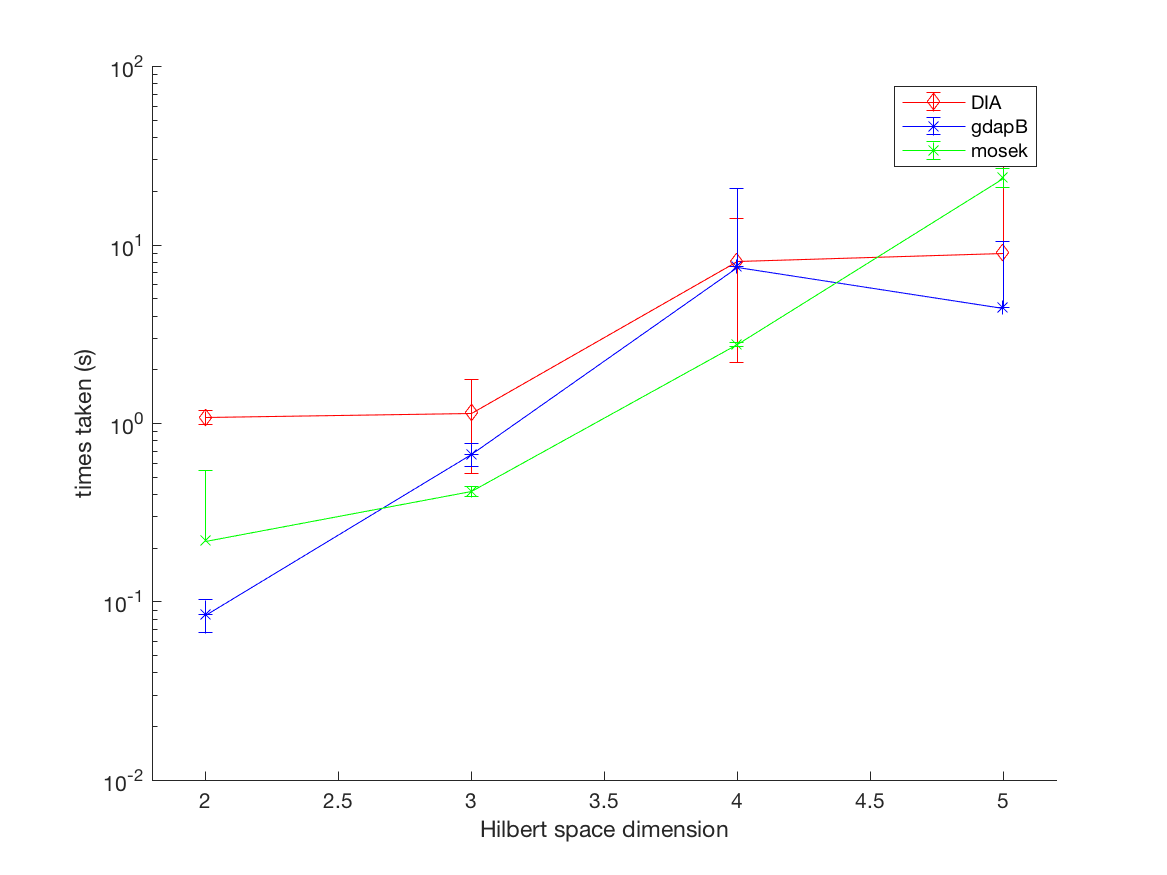
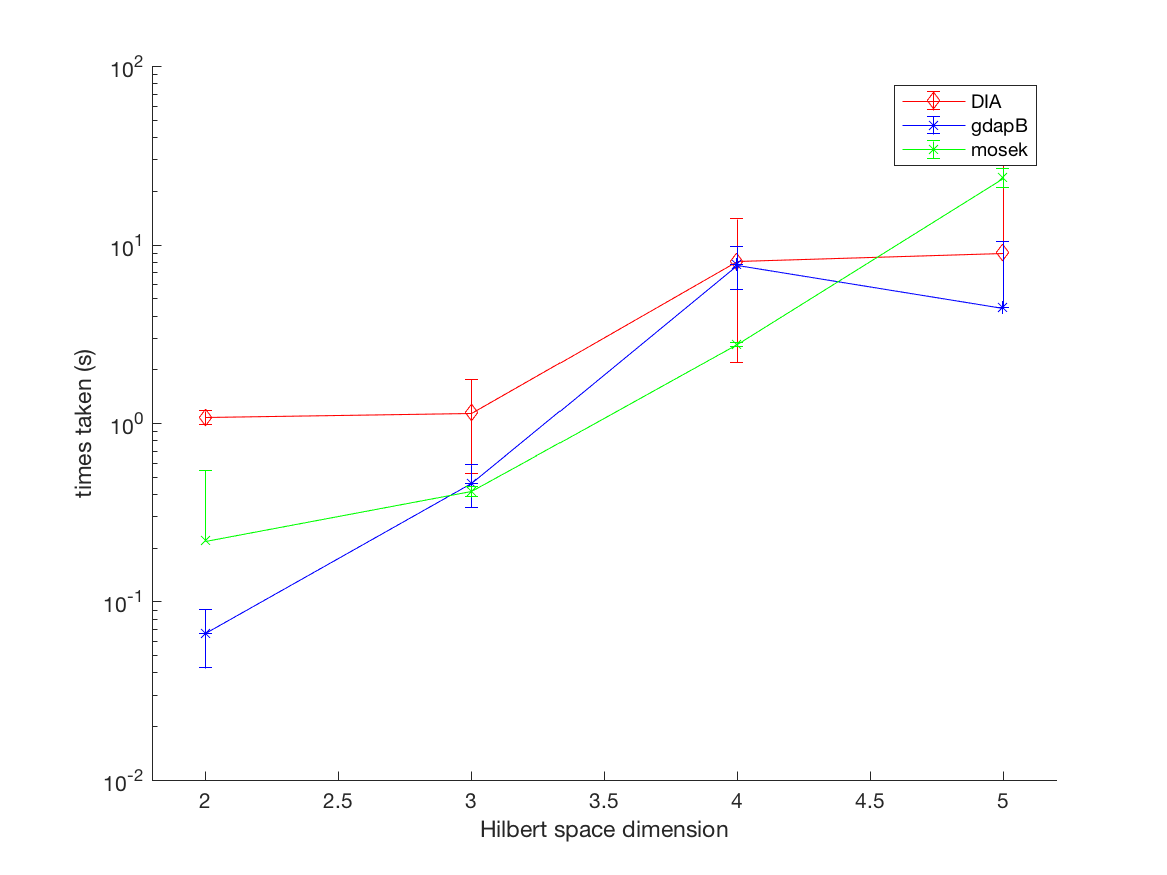
precomputing matrices for TP projection

diff --git a/gdapB.m b/gdapB.m
@@ -4,24 +4,35 @@ function [ choi_ml_vec,solution, costs ] = gdapB( A,n )
 %   Detailed explanation goes here
     d = sqrt(sqrt(size(A)));
     d = d(2);
+    
+    % precompute matrices for TP_project
+    M = zeros([d*d,d*d*d*d]);
+    for i=1:d
+        e = zeros(1,d);
+        e(i)  = 1;
+        B = kron(eye(d),e); % this is expensice
+        M = M + kron(B,B);  % this is expensive (kron)
+    end
+    MdagM = M'*M; % NEED TO PASS THIS INTO CPTP PROJECT AND THAN AGAIN TO TP PROJECT
+    
+    
     choi_init = eye(d*d)/d;
     choi_init = reshape(choi_init,[],1);
     solution  = {choi_init};
 %     stepsize      = 1.0/(1e3*d);
-    gamma = 1e-7; % larger means slower
-    costs = zeros(1,1e2);
-%     D = cell(1,1e3);
-    for i=1:1e2
-        costs(i)  = cost(A,n,solution{i});
-        D         = CPTP_project(solution{i}-gradient(A,n,solution{i}))-solution{i};
-%         if norm(D{i})<1e-10
+    gamma = 1e-7;
+    for i=1:5e3
+        i;
+        costs(i)     = cost(A,n,solution{i});
+        D{i}  = CPTP_project(solution{i}-gradient(A,n,solution{i}), MdagM, M)-solution{i};
+%         if norm(D{i})<1e-10   
 %             break
 %         end
         alpha = 1;
-        while cost(A,n,solution{i}+alpha*D) >= cost(A,n,solution{i}) +  gamma*alpha*(D'*gradient(A,n,solution{i}))
+        while cost(A,n,solution{i}+alpha*D{i}) > cost(A,n,solution{i}) +  gamma*alpha*(D{i}'*gradient(A,n,solution{i}))
             alpha = 0.2 * alpha ;
         end
-        solution{i+1} = solution{i} + alpha*D;
+        solution{i+1} = solution{i} + alpha*D{i};
         if i>20
             if var(costs(i-20:i)) < 1e-5
                 break
@@ -29,7 +40,7 @@ function [ choi_ml_vec,solution, costs ] = gdapB( A,n )
         end
     end
 
-%     choi_ml_vec = CPTP_project(solution{end});
     choi_ml_vec = solution{end};
 end
+
 

diff --git a/TP_project.m b/TP_project.m
@@ -1,17 +1,17 @@
-    function [ projected_choi_vec ] = TP_project( choi_vec )
+    function [ projected_choi_vec ] = TP_project( choi_vec, MdagM, M)
     %UNTITLED6 Summary of this function goes here
     %   Detailed explanation goes here
         d = sqrt(sqrt(size(choi_vec)));
         d = d(1);
-        % initialise A. TODO precompute this!
-        M = zeros([d*d,d*d*d*d]);
-        for i=1:d
-            e = zeros(1,d);
-            e(i)  = 1;
-            B = kron(eye(d),e);
-            M = M + kron(B,B);
-        end
+%         % initialise A. TODO precompute this!
+%         M = zeros([d*d,d*d*d*d]);
+%         for i=1:d
+%             e = zeros(1,d);
+%             e(i)  = 1;
+%             B = kron(eye(d),e); % this is expensice
+%             M = M + kron(B,B);  % this is expensive (kron)
+%         end
         b = reshape(eye(d),[],1);
-        S = eye(d*d*d*d)- (1.0/d) * (M'*M);
+        S = eye(d*d*d*d)- (1.0/d) * MdagM;
         projected_choi_vec = S*choi_vec + (1.0/d)*M'*b;
     end

diff --git a/CPTP_project.m b/CPTP_project.m
@@ -1,4 +1,4 @@
-function [ projected_choi_vec ] = CPTP_project( choi_vec )
+function [ projected_choi_vec ] = CPTP_project( choi_vec, MdagM, M  )
 %UNTITLED7 Summary of this function goes here
 %   Detailed explanation goes here
     x    = {choi_vec};
@@ -14,7 +14,7 @@ function [ projected_choi_vec ] = CPTP_project( choi_vec )
 %         x{k+1}=0.5*PSD_project(x{k})+0.5*TP_project(x{k});   % AVERAGED 
         y{k}   = PSD_project(x{k}+p{k}); % DIJKSTRA
         p{k+1} = x{k}+p{k}-y{k};
-        x{k+1} = TP_project(y{k}+q{k});
+        x{k+1} = TP_project(y{k}+q{k}, MdagM, M);
         q{k+1} = y{k}+q{k}-x{k+1};
 %         GAP    = norm(x{end-1}-x{end});      
         if k>2

diff --git a/PSD_project.m b/PSD_project.m
@@ -4,14 +4,17 @@ function [ projected_choi_vec ] = PSD_project( choi_vec )
     d = sqrt(size(choi_vec));
     d = d(1);
     choi = reshape(choi_vec,[],d);
-    
-   
+       
     choi = (choi + choi')/2;
+    
+    
     [V,D] = eig(choi);
     D = max(D,0);
     choi = V*D*V';
 
-%     choi = positiveProjection(choi); % Smolin method from EB
+%     t = trace(choi);
+%     choi = t*positiveProjection(choi/t); % Smolin method from EB. wants a
+    %trace one matrix as input
     
     projected_choi_vec = reshape(choi,[],1);
 end

diff --git a/launch_solvers.m b/launch_solvers.m
@@ -5,9 +5,9 @@ addpath('./QETLAB-0.9/helpers')
 ensemble_size = 10;
 
 cvx_solver mosek
-for method={'mosek','gdapB','DIA'}
-% for method={'gdapB'}
-    for d=2:6
+% for method={'mosek','gdapB','DIA'}
+for method={'gdapB'}
+    for d=2:3
         fprintf(char(10));
         fprintf('%d ', d);
 

diff --git a/generate_clicks.m b/generate_clicks.m
@@ -6,7 +6,7 @@ ensemble_size = 10;
 
 for d=2:6
     dir = sprintf('./benchmarking_results/d%i',d);
-    fprintf(char(10));
+    fprintf(newline);
     fprintf('%d ', d);
     A = GGM_IO(d);
     
